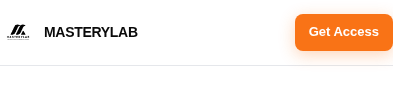
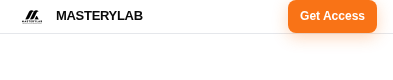
Mobile header — proper wrap padding + smaller elements for 393px viewport

Changed region(s): [[0.0, 0.0, 1.0, 0.575]]

diff --git a/index.html b/index.html
@@ -58,6 +58,7 @@
   .lead { font-size: 19px; color: var(--muted); max-width: 640px; line-height: 1.6; }
 
   .wrap { max-width: 1180px; margin: 0 auto; padding: 0 24px; }
+  .wrap.nav { padding: 0 16px; }
 
   /* === BUTTONS === */
   .btn {
@@ -553,10 +554,10 @@
     .hero-grid { gap: 40px; }
     section { padding: 60px 0; }
     .hero { padding: 60px 0; }
-    .nav { padding: 14px 0; gap: 12px; }
-    .brand { font-size: 14px; gap: 8px; }
-    .brand img { height: 36px; width: 36px; }
-    .nav-cta { padding: 8px 14px !important; font-size: 13px !important; }
+    .nav { padding: 14px 0; gap: 10px; }
+    .brand { font-size: 13px; gap: 8px; }
+    .brand img { height: 32px; width: 32px; }
+    .nav-cta { padding: 7px 12px !important; font-size: 12px !important; }
   }
 </style>
 </head>
